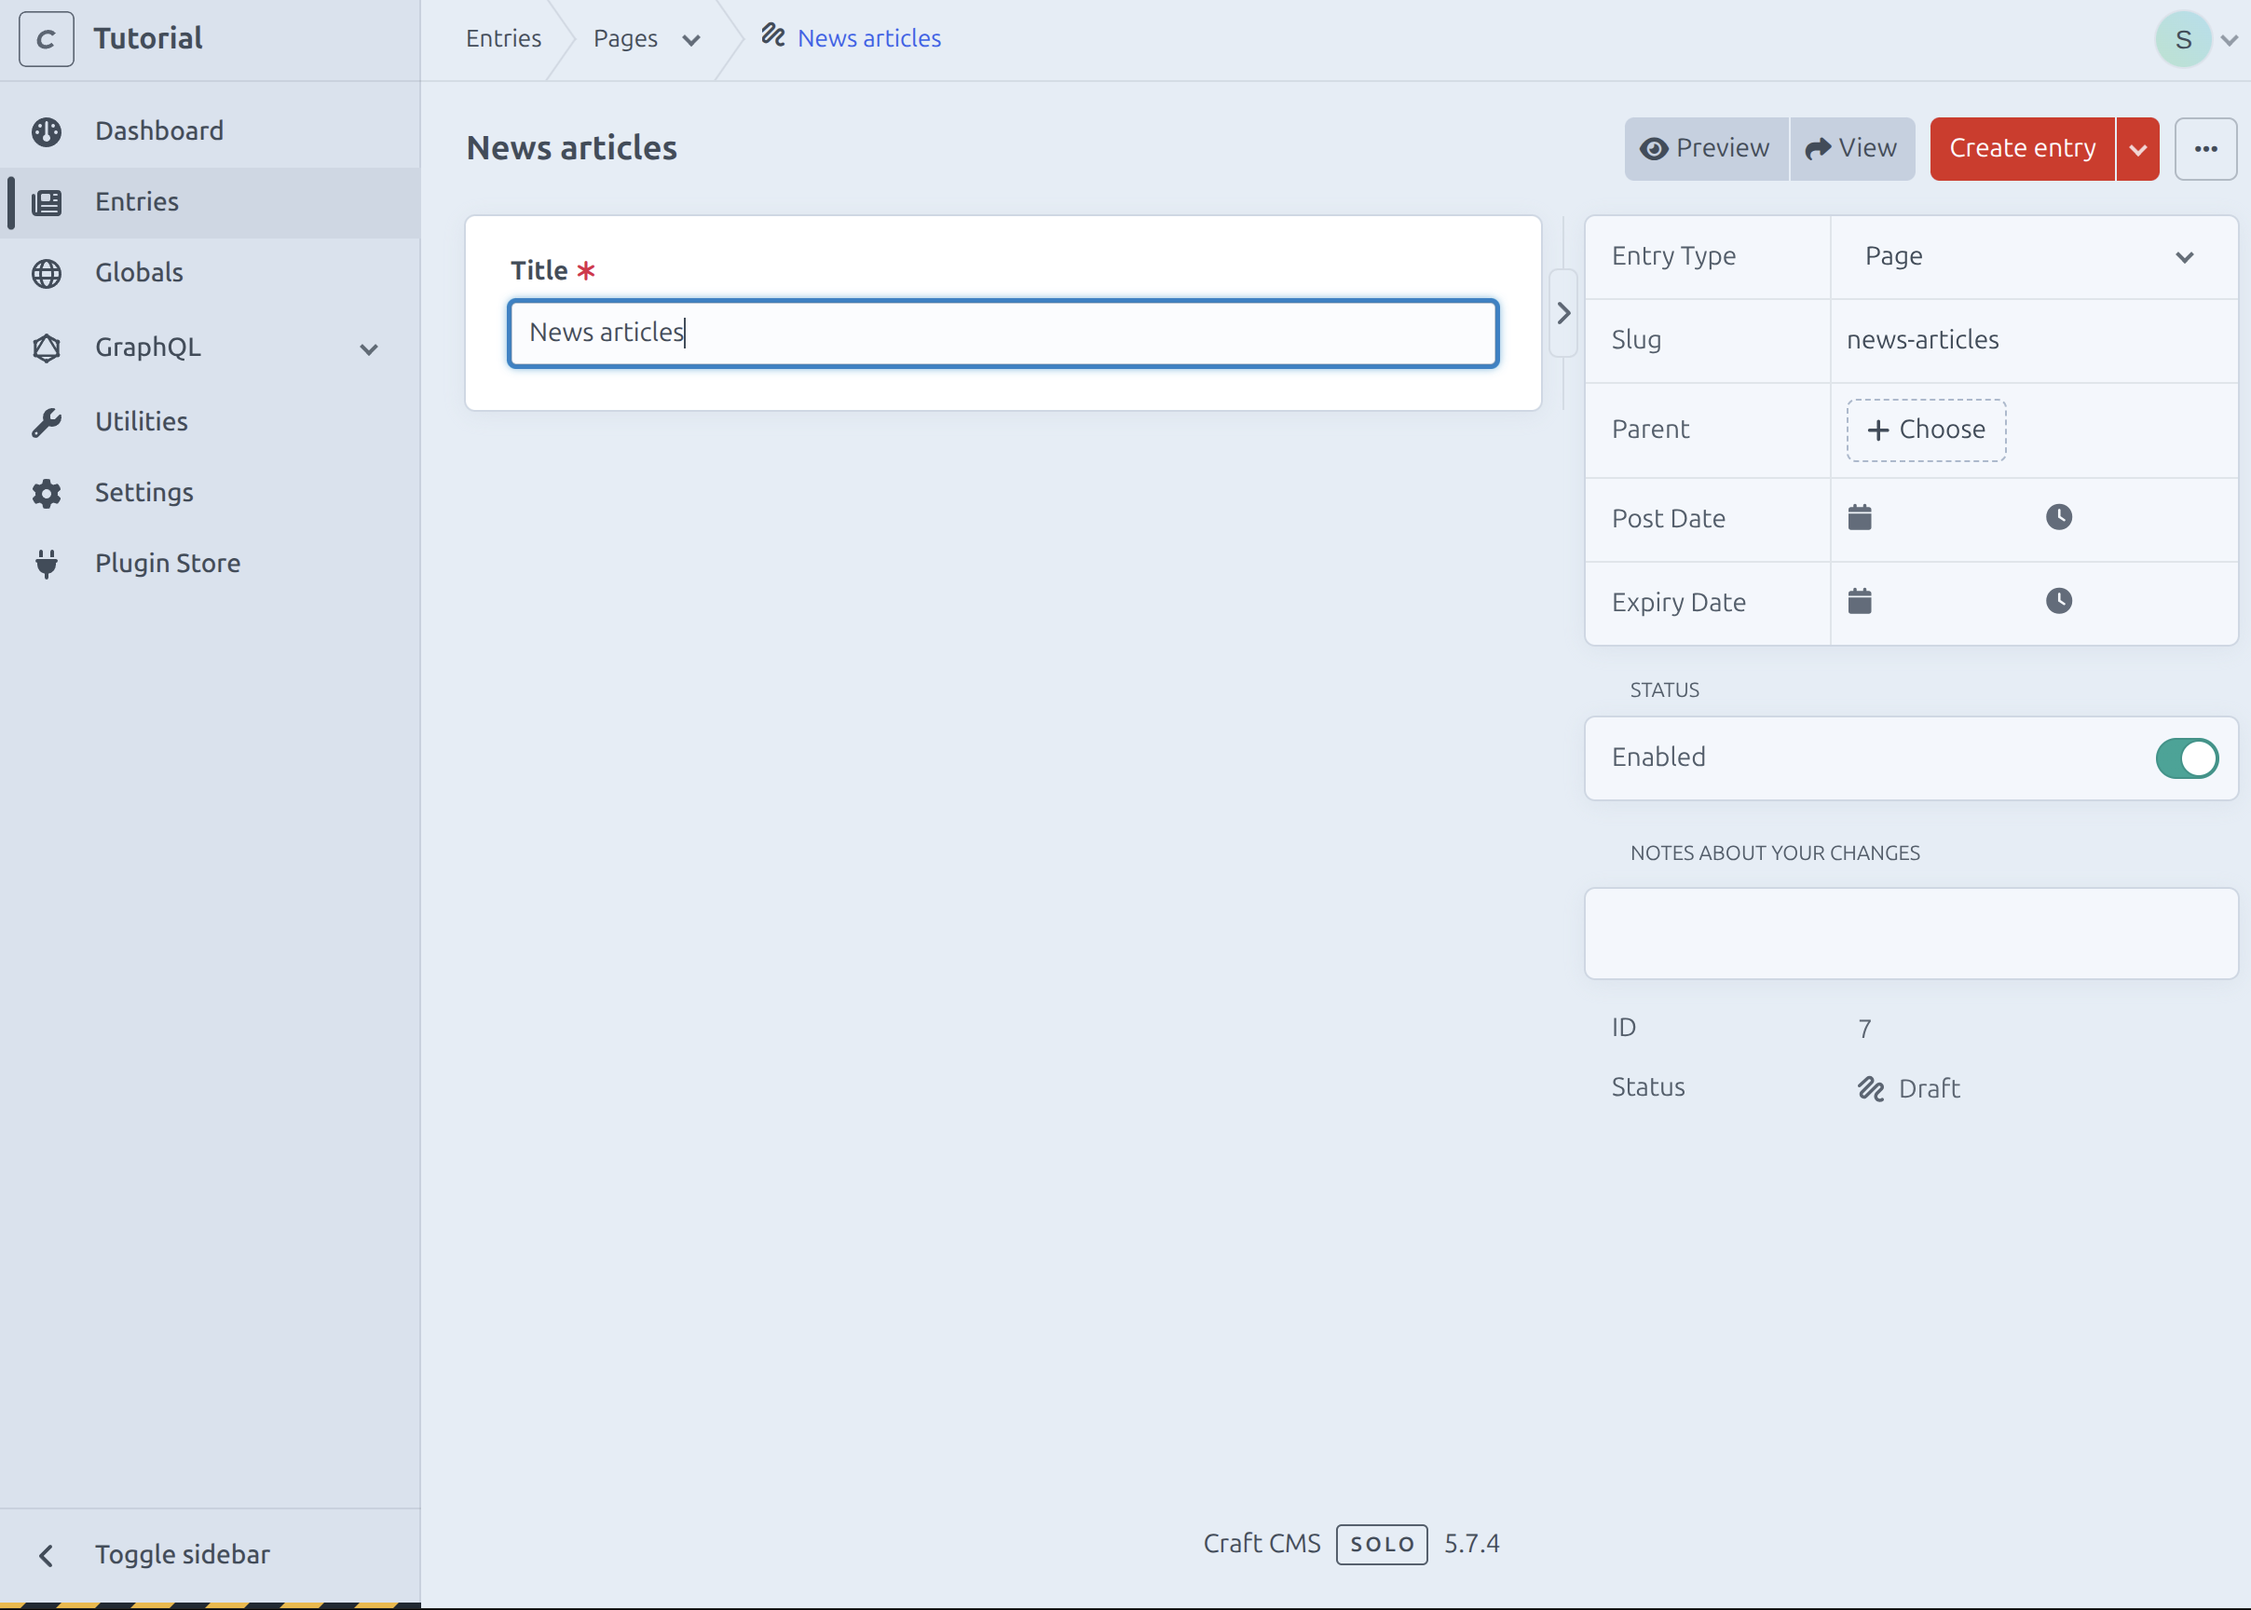
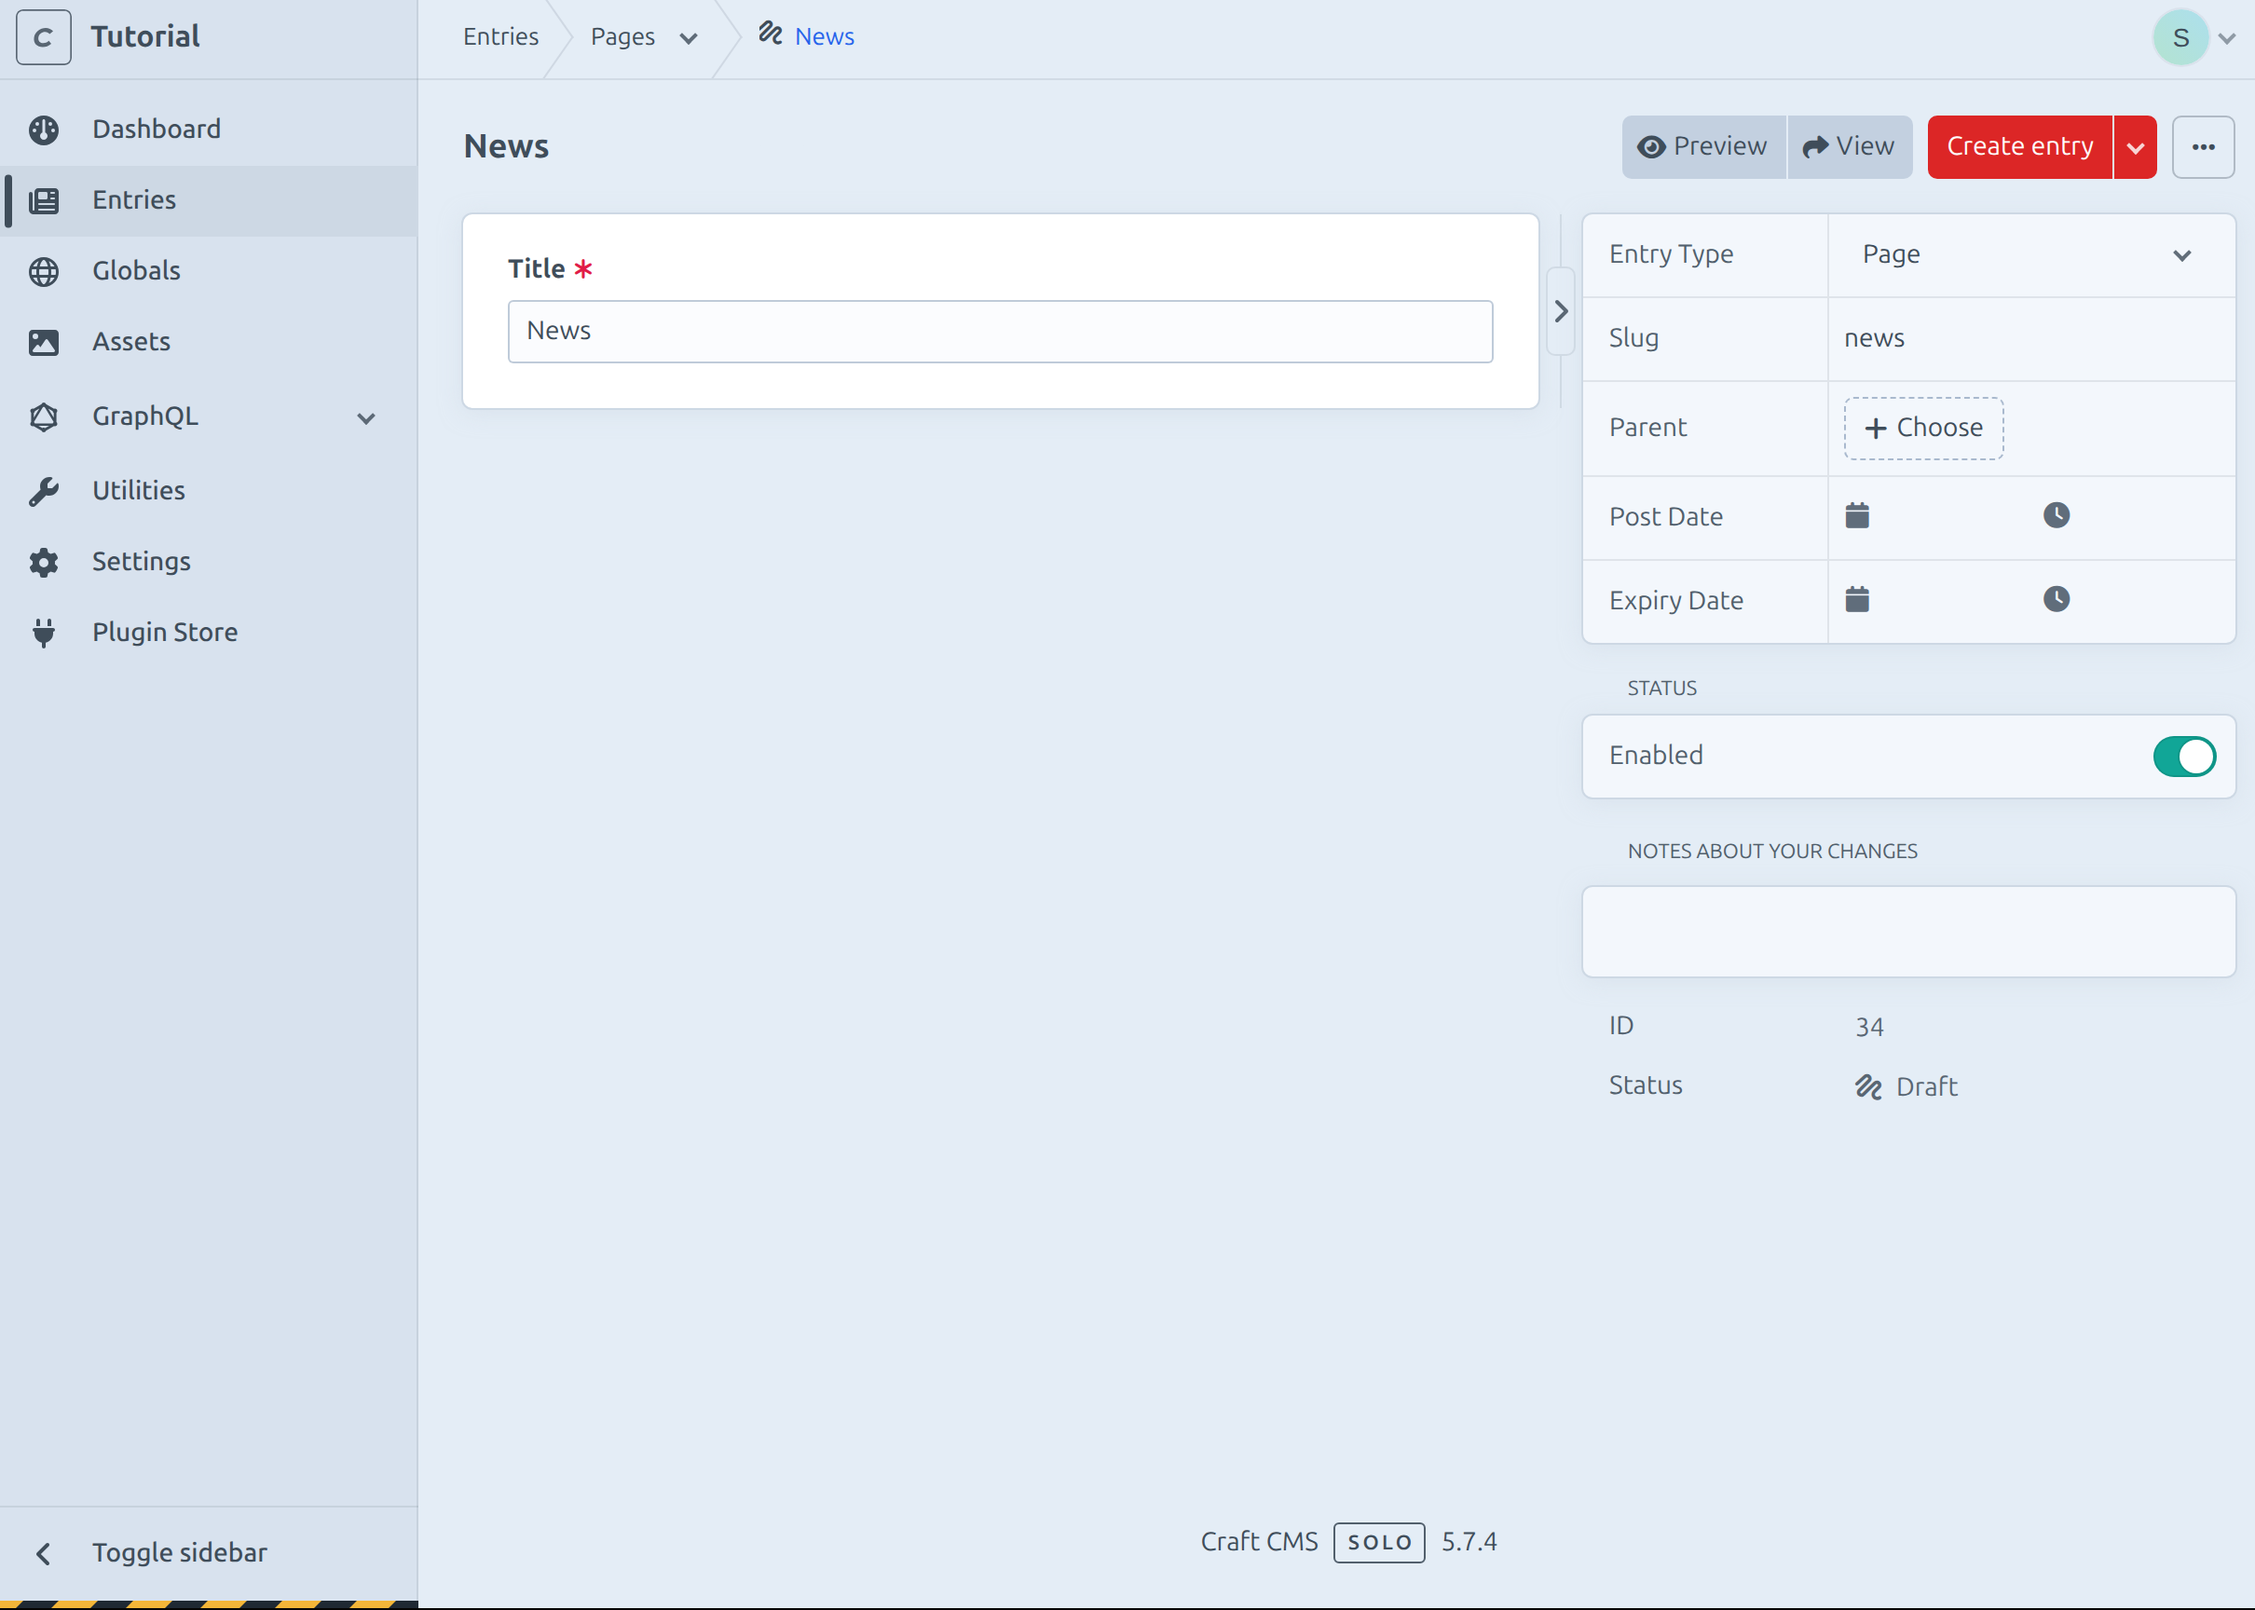
docs: page header tutorial should create a News page

diff --git a/docs/tutorial/02-page-header/01-craft.md b/docs/tutorial/02-page-header/01-craft.md
@@ -50,7 +50,7 @@ Set the title to `Home` and select the `Home` entry type.
 Then to make sure the homepage is the first page set the slug to `__home__`.
 ![Section Pages](./assets/01-section-pages-home.png)
 
-Create another Page named `News articles`.
+Create another Page named `News`.
 ![Section Pages](./assets/01-section-pages-news.png)
 
 ## Header
